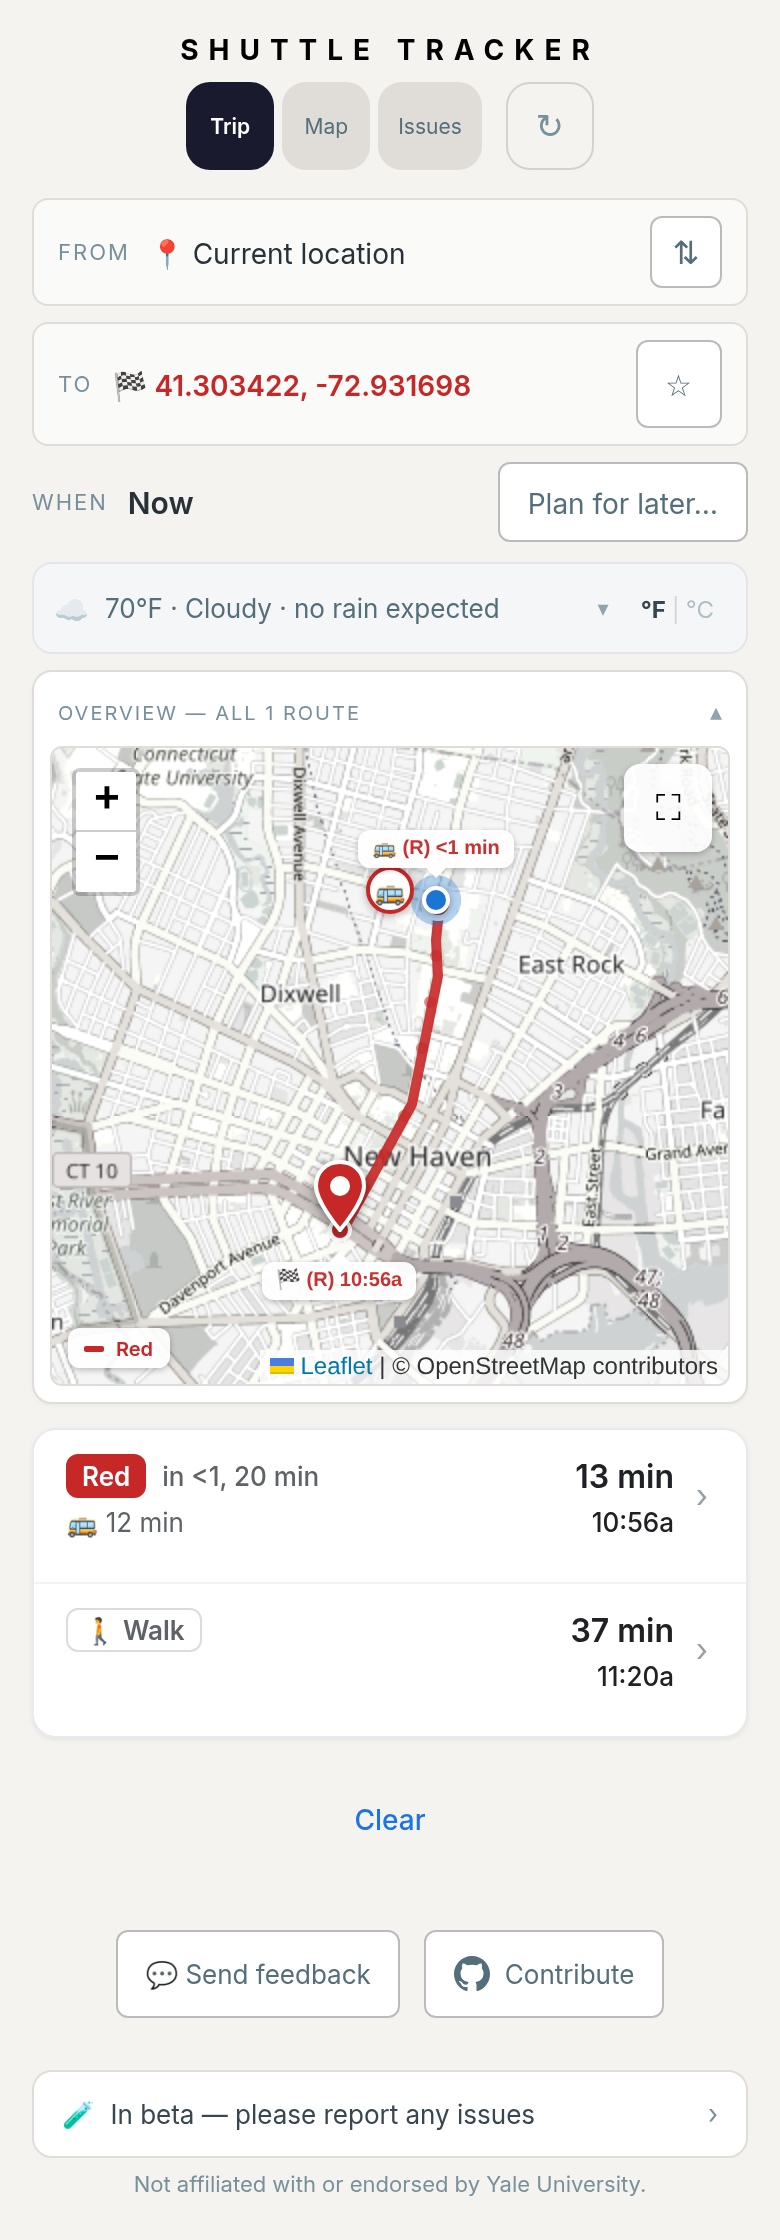
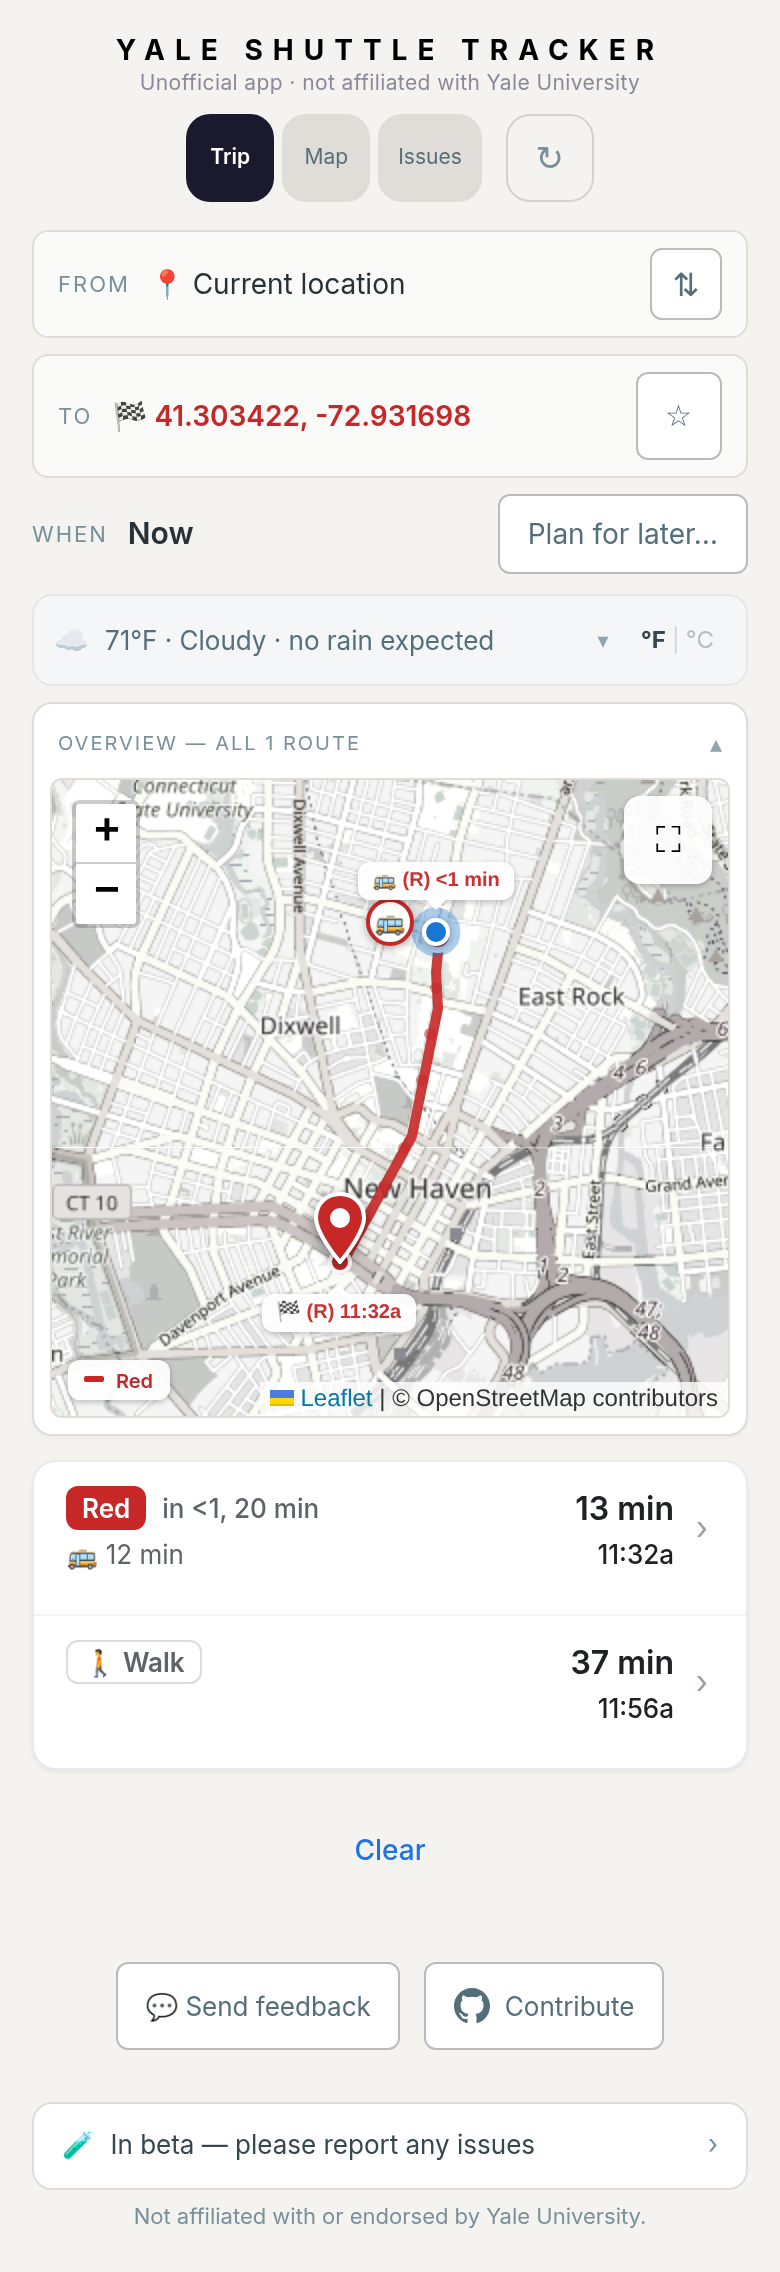
Re-take the band screenshots and fixtures on the rebased bundle
The three 390 px captures and the two canary fixtures now come off the tree
rebased on #224/#225/#230 ("Yale Shuttle Tracker", the tagline); the card
strings are unchanged: "in 4 (2-10), 17 min", "12 (6-20) min · 2 buses",
"in <1, 20 min".

Claude-Session: https://claude.ai/code/session_014qcdbwExvZLiLkpcKYvLWx

diff --git a/services/shuttle-v2/pr-preview/eta-band/README.md b/services/shuttle-v2/pr-preview/eta-band/README.md
@@ -1,14 +1,14 @@
 # The countdown's band, with its median
 
-Screenshots for `eta/calibrated-range` (`web/src/etaBand.ts`, `fmtBusBand`),
+Screenshots for `eta/calibrated-range` (rebased on #224/#225/#230: "Yale Shuttle Tracker" title and tagline) (`web/src/etaBand.ts`, `fmtBusBand`),
 390 px, real bundle, staged server on a throwaway DB with Red's production
 tables (`base-patch.json`) and two buses placed on the published sequence
 (`scenarios.json`); rider at Division / Prospect, bound for LEPH / 60 College.
 
 | shot | the card | what it shows |
 |---|---|---|
-| `moving-toward-layover.png` | `Red   12 (6-20) min · 2 buses   25 min / 9:38a` | #304 driving toward the 344 Winchester layover — a range while MOVING, the operator's first ask; #316 behind it inside the band, so bunching.ts folds the pair |
-| `standing-at-layover.png` | `Red   in 4 (2-10), 17 min   17 min / 10:59a` | #304 standing at 344 Winchester: the median beside the band, the second bus apart; the low end is floored at departNow + the shortest stand left (`standingLowFloor`), the low end today's card printed |
+| `moving-toward-layover.png` | `Red   12 (6-20) min · 2 buses   25 min / 11:44a` | #304 driving toward the 344 Winchester layover — a range while MOVING, the operator's first ask; #316 behind it inside the band, so bunching.ts folds the pair |
+| `standing-at-layover.png` | `Red   in 4 (2-10), 17 min   17 min / 11:36a` | #304 standing at 344 Winchester: the median beside the band, the second bus apart; the low end is floored at departNow + the shortest stand left (`standingLowFloor`), the low end today's card printed |
 | `moving-no-layover-ahead.png` | `Red   in <1, 20 min` | a band under 3 printed minutes prints as the point it is — byte-identical to before |
 
 The map's board chip prints the same three numbers ("4 (2-10) min").
